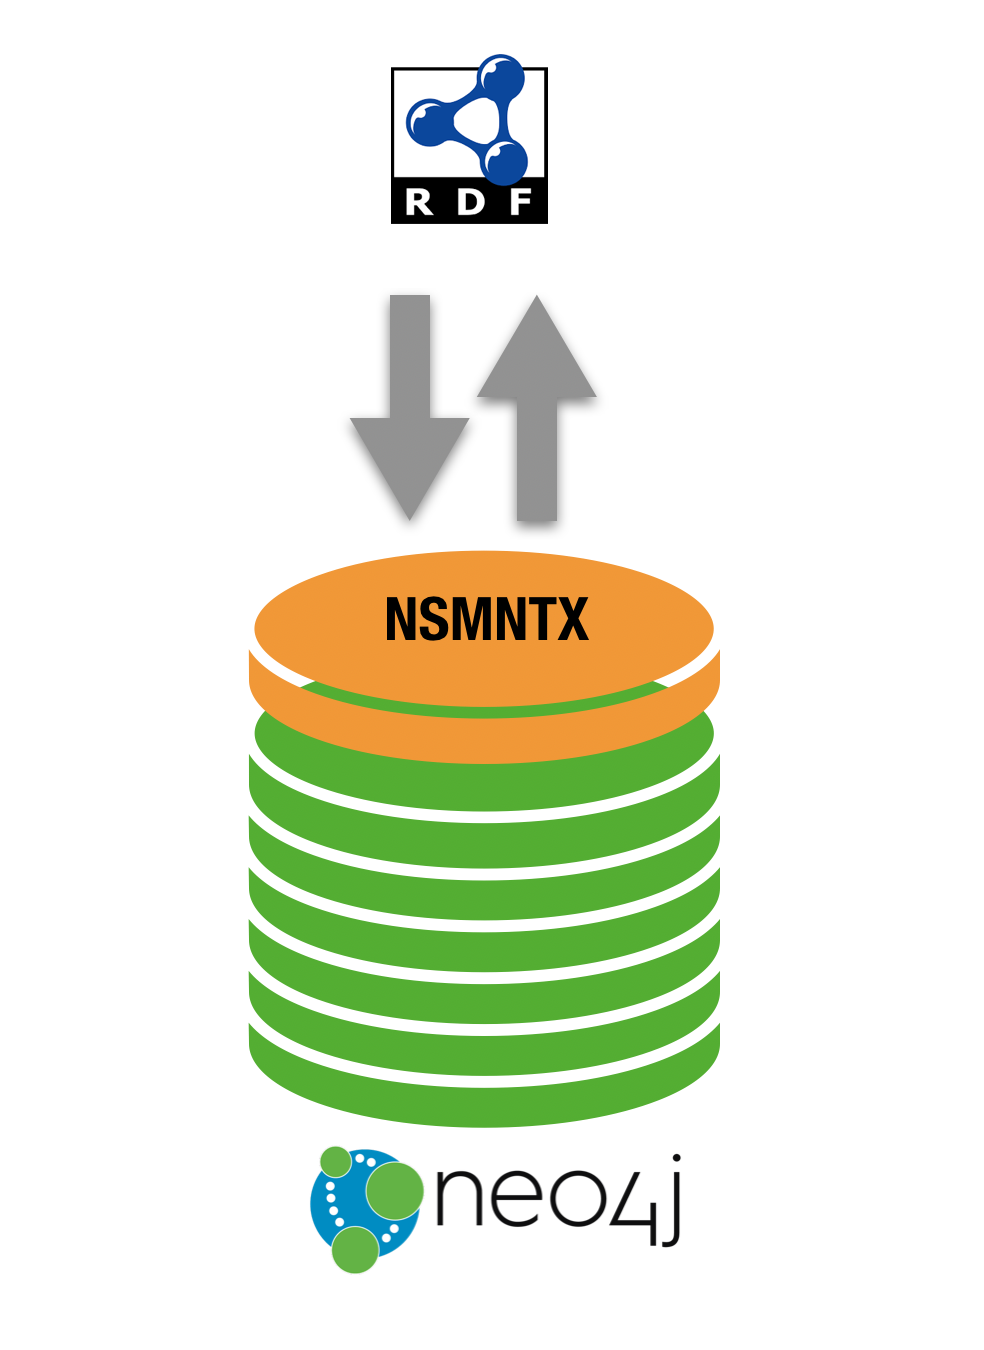
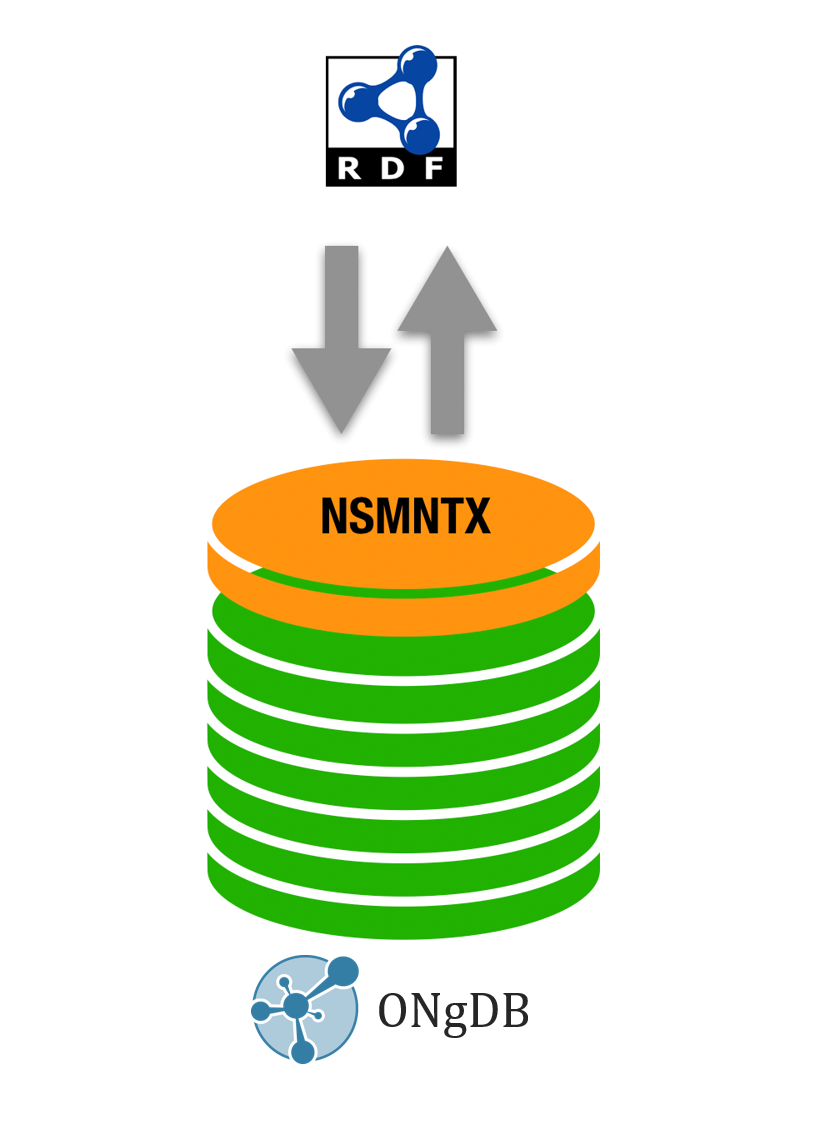
update

Changed region(s): [[0.2439, 0.4044, 0.7317, 0.9644]]

diff --git a/public/index.html b/public/index.html
@@ -1,6 +1,7 @@
 <!DOCTYPE html>
 <html lang="en">
 <head>
+<link rel="icon" type="image/png" href="docs/img/ongdb.png"/>
 <meta charset="UTF-8">
 <!--[if IE]><meta http-equiv="X-UA-Compatible" content="IE=edge"><![endif]-->
 <meta name="viewport" content="width=device-width, initial-scale=1.0">
@@ -534,12 +535,12 @@ lossless manner (imported RDF can subsequently be exported without losing a sing
 <h2 id="Install"><a class="link" href="#Install">Installation</a></h2>
 <div class="sectionbody">
 <div class="paragraph">
-<p>You can either download a prebuilt jar from the <a href="https://github.com/jbarrasa/neosemantics/releases">releases area</a> or build it from the source. If you prefer to build, check the note below.</p>
+<p>You can either download a prebuilt jar from the <a href="https://github.com/ongdb-contrib/neosemantics/releases">releases area</a> or build it from the source. If you prefer to build, check the note below.</p>
 </div>
 <div class="olist arabic">
 <ol class="arabic">
 <li>
-<p>Copy the  the jar(s) in the &lt;NEO_HOME&gt;/plugins directory of your Neo4j instance. (<strong>note:</strong> If you&#8217;re going to use the JSON-LD serialisation format for RDF, you&#8217;ll need to include also <a href="https://neo4j-contrib.github.io/neo4j-apoc-procedures/">APOC</a>)</p>
+<p>Copy the  the jar(s) in the &lt;NEO_HOME&gt;/plugins directory of your Neo4j instance. (<strong>note:</strong> If you&#8217;re going to use the JSON-LD serialisation format for RDF, you&#8217;ll need to include also <a href="https://graphfoundation.github.io/ongdb-apoc/">APOC</a>)</p>
 </li>
 <li>
 <p>Add the following line to your &lt;NEO_HOME&gt;/conf/neo4j.conf (notice that it is possible to modify where the extension is mounted by using an alternative name to <code>/rdf</code> below).</p>
@@ -1270,7 +1271,7 @@ RETURN monica</code></pre>
 </div>
 </div>
 <div class="paragraph">
-<p>To avoid this, you can use <a href="https://neo4j-contrib.github.io/neo4j-apoc-procedures/#_nodes_collapse">APOC Nodes collapse</a>. <code>apoc.nodes.collapse</code> merges the set of nodes into a virtual node.</p>
+<p>To avoid this, you can use <a href="https://graphfoundation.github.io/ongdb-apoc/#_nodes_collapse">APOC Nodes collapse</a>. <code>apoc.nodes.collapse</code> merges the set of nodes into a virtual node.</p>
 </div>
 <div class="paragraph">
 <p>Here is the cypher snippet showing how to do that with the <code>exDoc:Monica</code> example:</p>
@@ -1300,7 +1301,7 @@ RETURN DISTINCT from AS monica</code></pre>
 </div>
 </div>
 <div class="paragraph">
-<p>You can find more information about the parameter configuration of <code>apoc.nodes.collapse</code> on <a href="https://neo4j-contrib.github.io/neo4j-apoc-procedures/#_nodes_collapse">APOC Nodes collapse</a>.</p>
+<p>You can find more information about the parameter configuration of <code>apoc.nodes.collapse</code> on <a href="https://graphfoundation.github.io/ongdb-apoc/#_nodes_collapse">APOC Nodes collapse</a>.</p>
 </div>
 </div>
 </div>
@@ -1329,7 +1330,7 @@ The following two parameters will help in these situations:
 </div>
 </div>
 <div class="paragraph">
-<p>Notice that the Bristish Library service requires you to encode the SPARQL query. We do this with <a href="https://neo4j-contrib.github.io/neo4j-apoc-procedures/#_overview_text_functions">APOC&#8217;s apoc.text.urlencode function</a>. After running this you get a pretty poor graph, because the
+<p>Notice that the Bristish Library service requires you to encode the SPARQL query. We do this with <a href="https://graphfoundation.github.io/ongdb-apoc/#_overview_text_functions">APOC&#8217;s apoc.text.urlencode function</a>. After running this you get a pretty poor graph, because the
 DESCRIBE query only returns the statements having 'The world of yesterday' (<code><a href="http://bnb.data.bl.uk/id/resource/018212405" class="bare">http://bnb.data.bl.uk/id/resource/018212405</a></code>) as subject or object.
 But we can enrich it a bit by re-running it for a all of the URIs connected to our book as follows:</p>
 </div>
